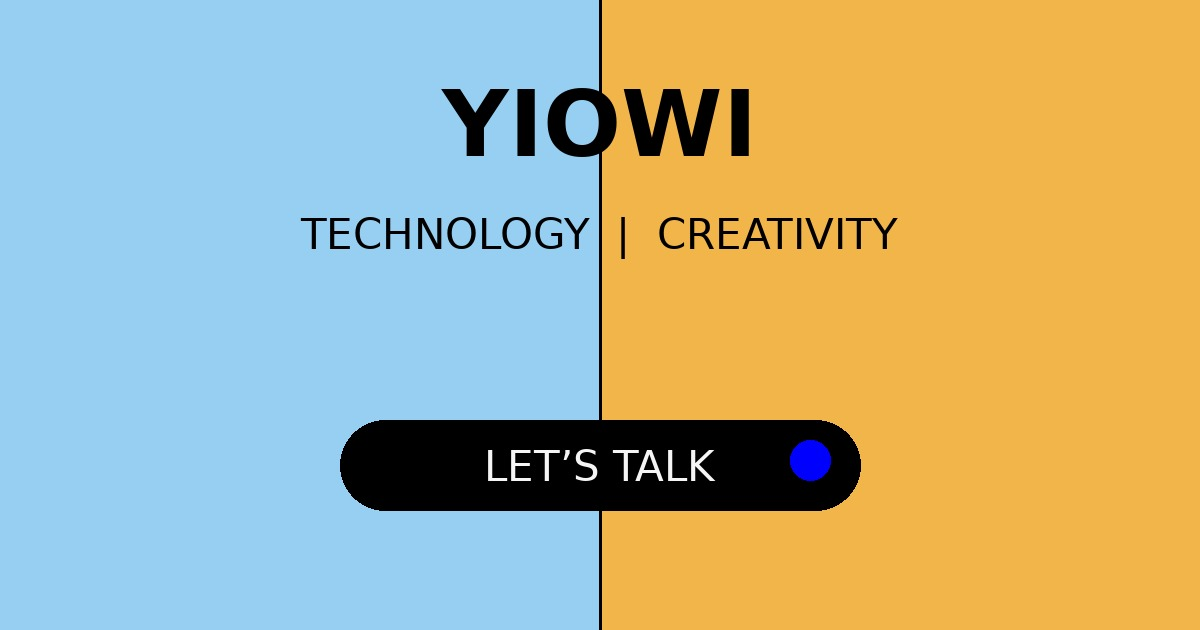
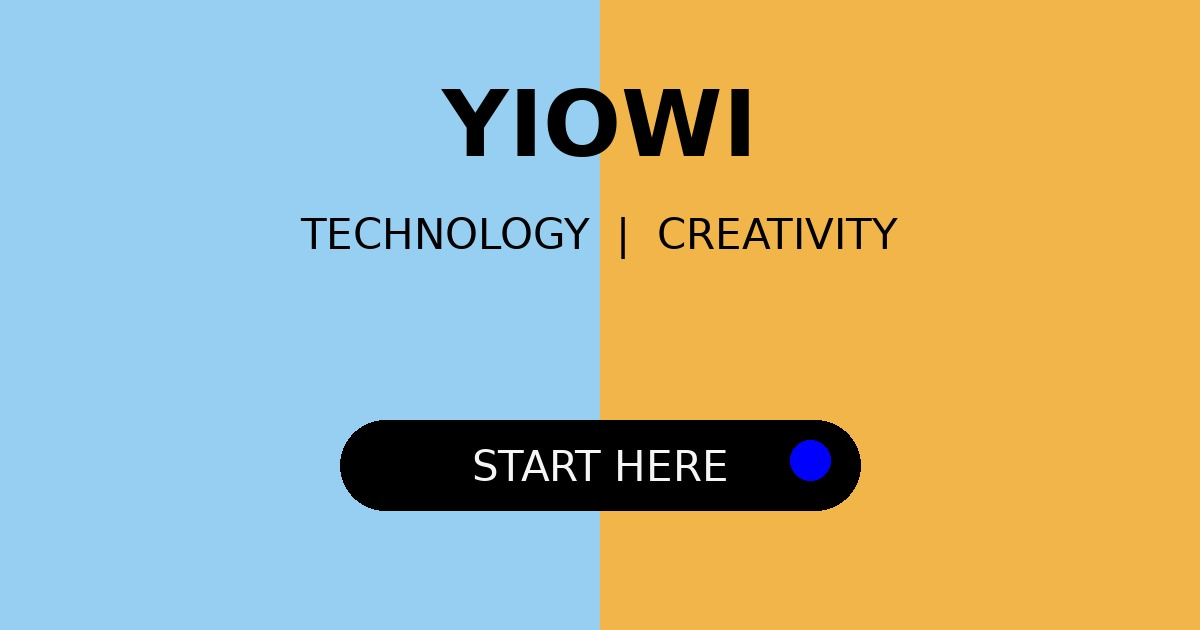
Add files via upload

diff --git a/styles.css b/styles.css
@@ -7,11 +7,15 @@
 
 *{box-sizing:border-box}
 html,body{height:100%}
+
 body{
   margin:0;
   font-family: "Manrope", system-ui, -apple-system, Segoe UI, Roboto, Helvetica, Arial, sans-serif;
   overflow-x:hidden;
+  background: linear-gradient(90deg, var(--left) 0 50%, var(--right) 50% 100%);
 }
+
+.page{ min-height:100vh; }
 
 .top{
   display:flex;
@@ -36,12 +40,11 @@ body{
   display:flex;
   align-items:center;
   justify-content:center;
+  background: transparent; /* so the split background is continuous behind logo too */
 }
 
-.left{ background: var(--left); }
-.right{ background: var(--right); }
-
 .word-wrap{ width: min(720px, 92%); }
+
 .word{
   font-weight: 700;
   letter-spacing: 0.16em;
@@ -53,17 +56,6 @@ body{
 
 .left .word{ text-align:right; padding-right: clamp(16px, 3vw, 36px); }
 .right .word{ text-align:left; padding-left: clamp(16px, 3vw, 36px); }
-
-.seam{
-  position:absolute;
-  left:50%;
-  top:0;
-  transform:translateX(-50%);
-  width:2px;
-  height:100%;
-  background: rgba(0,0,0,0.55);
-  box-shadow: 0 0 0 1px rgba(255,255,255,0.12), 0 0 24px rgba(0,0,255,0.22);
-}
 
 .cta-wrap{
   position:absolute;
@@ -96,15 +88,17 @@ body{
 .cta-dot{ width:14px; height:14px; border-radius:999px; background: var(--blue);
   box-shadow: 0 0 0 1px rgba(255,255,255,0.12), 0 10px 30px rgba(0,0,255,0.30); }
 
-.contact{ display:flex; align-items:center; gap:10px; flex-wrap:wrap; font-size:14px; }
+.contact{ font-size:14px; }
 .contact a{ color: rgba(0,0,0,0.78); text-decoration:none; border-bottom:1px solid rgba(0,0,0,0.22); padding-bottom:2px; }
 .contact a:hover{ border-color: rgba(0,0,0,0.55); }
-.sep{ color: rgba(0,0,0,0.35); }
+
 .micro{ font-size:12px; letter-spacing:.06em; color: rgba(0,0,0,0.55); text-align:center; }
 
 @media (max-width: 720px){
+  body{
+    background: linear-gradient(180deg, var(--left) 0 50%, var(--right) 50% 100%);
+  }
   .hero{ height:auto; min-height: calc(100vh - 92px); flex-direction: column; }
-  .seam{ left:0; top:50%; transform:none; width:100%; height:2px; }
   .left .word, .right .word{ text-align:center; padding: 0 12px; }
   .cta-wrap{ position:relative; left:auto; bottom:auto; transform:none; padding: 18px 0 26px; }
 }

diff --git a/index.html b/index.html
@@ -37,35 +37,33 @@
 </head>
 
 <body>
-  <header class="top">
-    <img class="logo" src="/assets/logo.svg" alt="Yiowi — Hybrid Intelligence Studio" />
-  </header>
+  <div class="page">
+    <header class="top">
+      <img class="logo" src="/assets/logo.svg" alt="Yiowi — Hybrid Intelligence Studio" />
+    </header>
 
-  <main class="hero" aria-label="Yiowi">
-    <section class="panel left" aria-label="Technology">
-      <div class="word-wrap"><div class="word">TECHNOLOGY</div></div>
-    </section>
+    <main class="hero" aria-label="Yiowi">
+      <section class="panel left" aria-label="Technology">
+        <div class="word-wrap"><div class="word">TECHNOLOGY</div></div>
+      </section>
 
-    <div class="seam" aria-hidden="true"></div>
+      <section class="panel right" aria-label="Creativity">
+        <div class="word-wrap"><div class="word">CREATIVITY</div></div>
+      </section>
 
-    <section class="panel right" aria-label="Creativity">
-      <div class="word-wrap"><div class="word">CREATIVITY</div></div>
-    </section>
+      <div class="cta-wrap">
+        <a class="cta" href="https://wa.me/35799776169" target="_blank" rel="noopener">
+          <span class="cta-text">START HERE</span>
+          <span class="cta-dot" aria-hidden="true"></span>
+        </a>
 
-    <div class="cta-wrap">
-      <a class="cta" href="mailto:yo@yiowi.com">
-        <span class="cta-text">LET’S TALK</span>
-        <span class="cta-dot" aria-hidden="true"></span>
-      </a>
+        <div class="contact">
+          <a href="mailto:yo@yiowi.com">yo@yiowi.com</a>
+        </div>
 
-      <div class="contact">
-        <a href="mailto:yo@yiowi.com">yo@yiowi.com</a>
-        <span class="sep">·</span>
-        <a href="https://wa.me/35799776169" target="_blank" rel="noopener">WhatsApp</a>
+        <div class="micro">Limassol, Cyprus — operating globally.</div>
       </div>
-
-      <div class="micro">Limassol, Cyprus — operating globally.</div>
-    </div>
-  </main>
+    </main>
+  </div>
 </body>
 </html>
